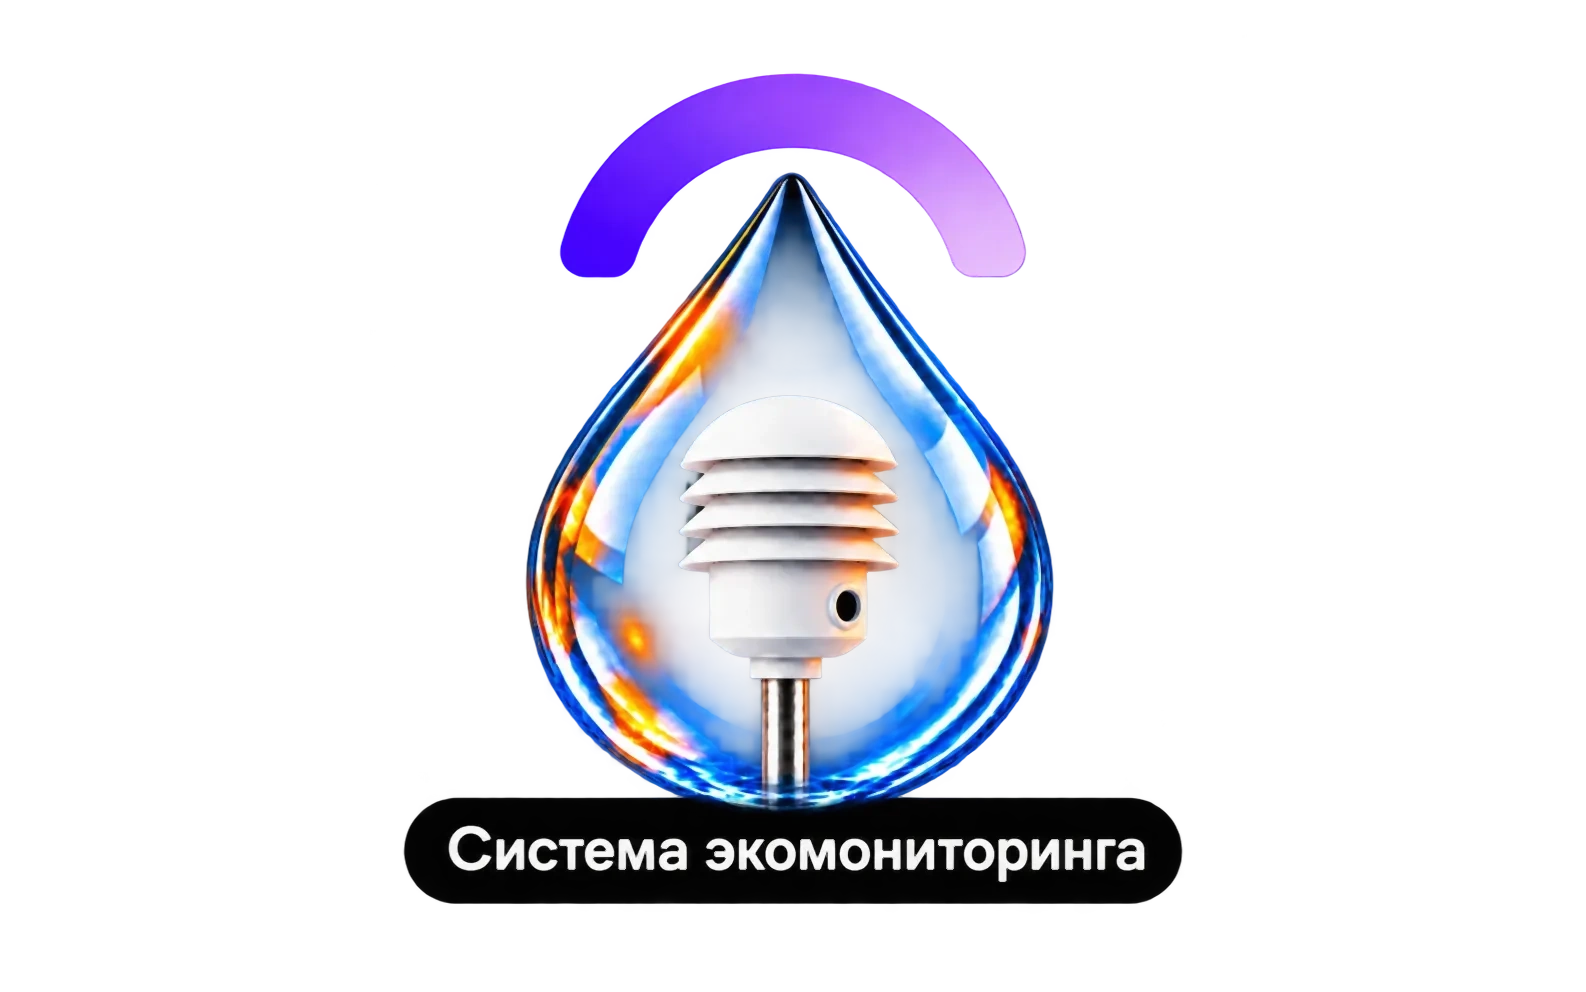
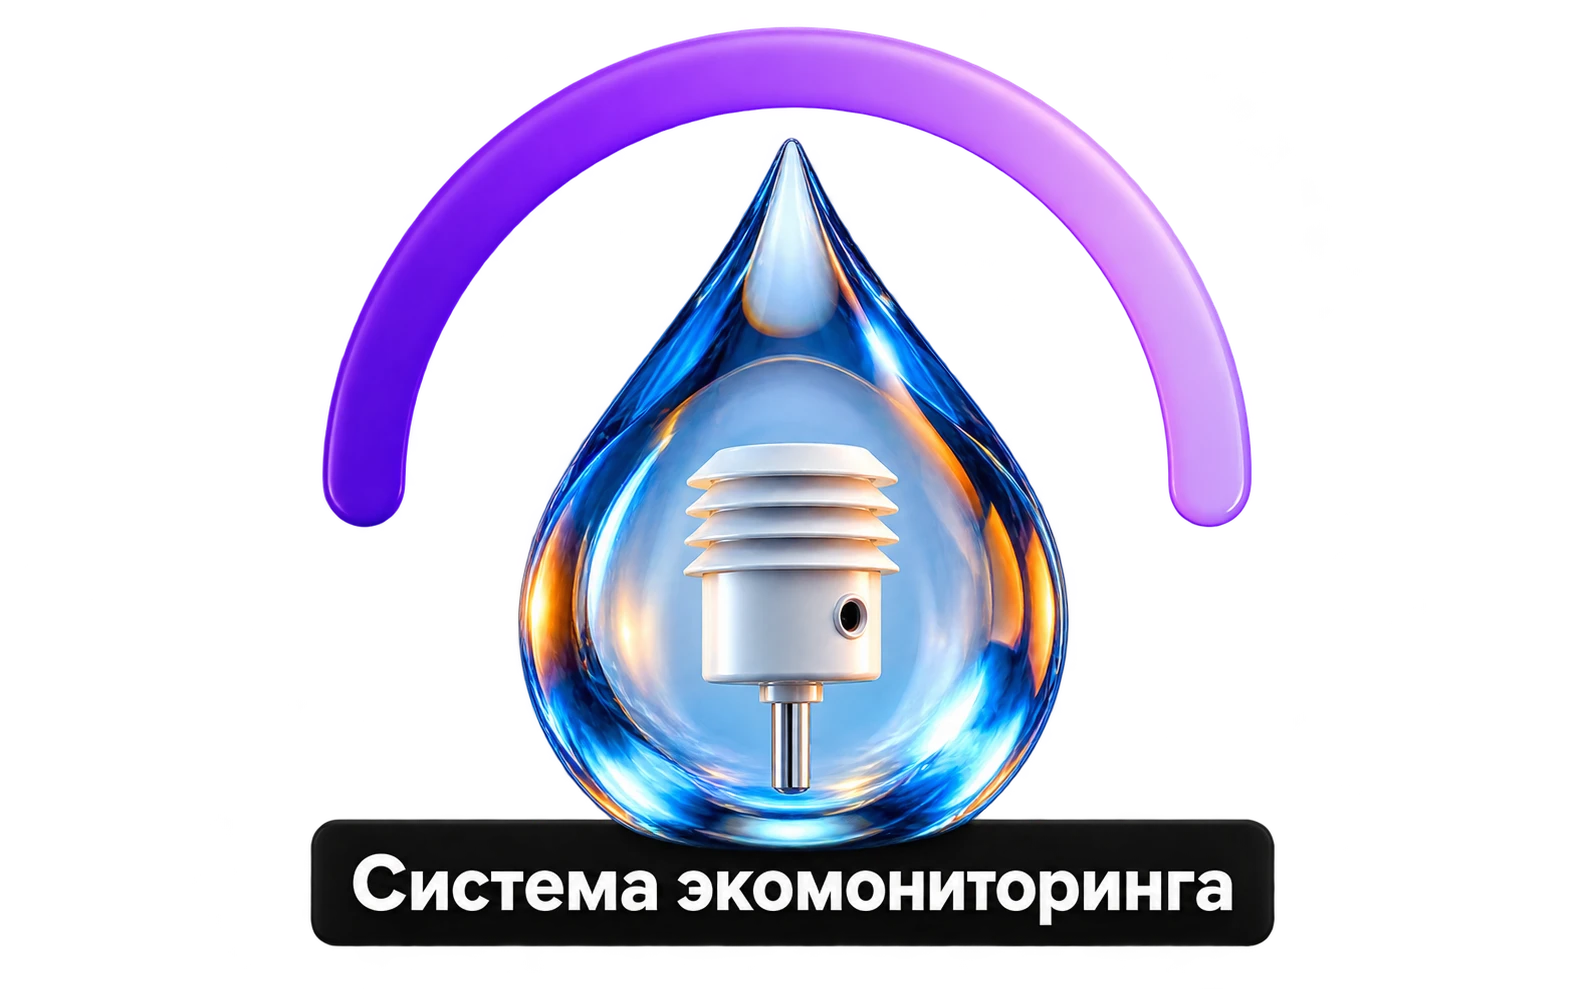
Превью экомониторинга — третий арт, с воздухом от краёв

diff --git a/src/data/cases.ts b/src/data/cases.ts
@@ -335,17 +335,17 @@ export const caseStudies: CaseStudy[] = [
     ],
     preview: {
       src: ecoPreview,
-      alt: "Кейс: платформа экомониторинга — капля воды с датчиком, фиолетовая дуга над ней и подпись «Система экомониторинга»",
-      // Арт 1586×992, прозрачный фон: дуга, капля и чёрная подпись занимают 49.1% ширины файла
-      // (x 404–1182) и 83.7% высоты (y 73–903), центр рисунка — 50% по x и 49.2% по y.
-      // В карточке рисунок 73% высоты плашки (файл 152% ширины плашки), по бокам ~50px воздуха.
-      class: "absolute left-1/2 top-1/2 h-auto w-[152%] max-w-none -translate-x-1/2 -translate-y-[49.2%]",
-      widths: [680, 1360],
-      sizes: "(min-width: 1024px) 680px, 155vw",
-      // В слайдере рисунок целиком: высота 80% слайда, файл 82% его ширины.
+      alt: "Кейс: платформа экомониторинга — капля воды с датчиком под фиолетовой дугой, подпись «Система экомониторинга»",
+      // Арт 1591×989, прозрачный фон: дуга, капля и чёрная подпись занимают 60.6% ширины файла
+      // (x 310–1274) и 92.9% высоты (y 27–946), центр рисунка — 49.8% по x и 49.2% по y.
+      // В карточке рисунок 75% ширины и 67% высоты плашки (файл 126% ширины плашки): не упирается в края.
+      class: "absolute left-1/2 top-1/2 h-auto w-[126%] max-w-none -translate-x-[49.8%] -translate-y-[49.2%]",
+      widths: [560, 1120],
+      sizes: "(min-width: 1024px) 560px, 130vw",
+      // В слайдере рисунок целиком: высота 78% слайда, файл 72% его ширины.
       hero: {
-        class: "absolute left-1/2 top-1/2 h-auto w-[82%] max-w-none -translate-x-1/2 -translate-y-[49.2%]",
-        width: 340,
+        class: "absolute left-1/2 top-1/2 h-auto w-[72%] max-w-none -translate-x-[49.8%] -translate-y-[49.2%]",
+        width: 298,
       },
     },
   }),

diff --git a/PLAN.md b/PLAN.md
@@ -1096,3 +1096,9 @@ Figma MCP с масштабом 2 (2880×2048). Обычный скриншот 
 сборке убрали: `quality={92}` у `<Image>` в `CaseCard` и `HeroCaseSlider` (по умолчанию Astro сжимает
 в 80). Рисунок уменьшен: в карточке 73% высоты плашки (поля 52/52 по бокам, 60/60 сверху и снизу),
 в слайдере 80% высоты (поля 124/124 по бокам, 22/22 сверху и снизу).
+
+**Превью экомониторинга, третий арт** — `preview.webp` заменён на 1591×989 (дуга шире и выше капли,
+капля прозрачнее, подпись «Система экомониторинга»). Файл чистый, медианный фильтр не нужен
+(качество 92 при сборке остаётся). Рисунок 60.6% ширины и 92.9% высоты файла, центр 49.8% / 49.2%.
+Масштаб подобран, чтобы не упираться в края: карточка — рисунок 75% ширины и 67% высоты плашки
+(файл 126%), слайдер — 78% высоты (файл 72%).
